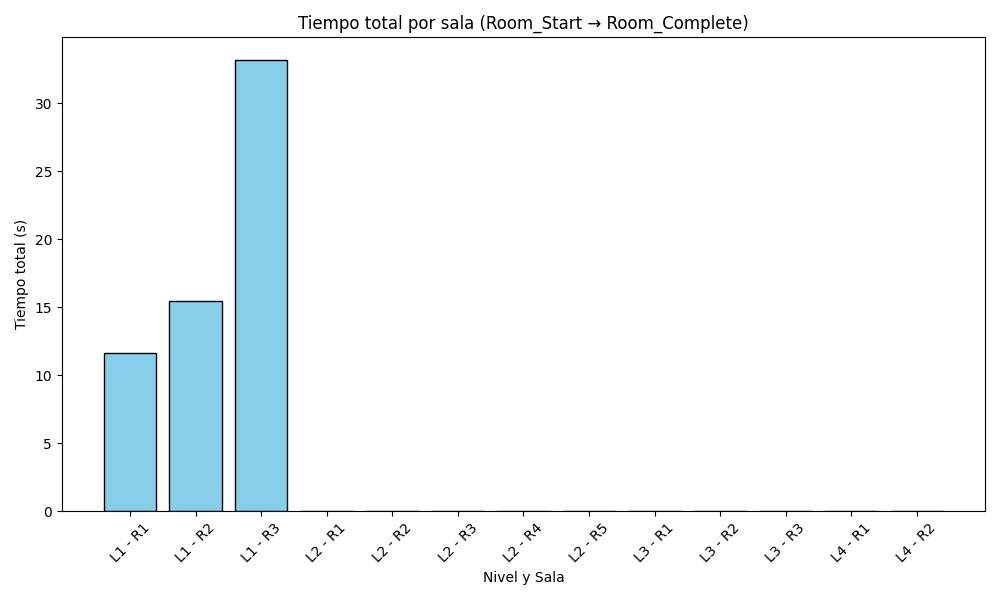
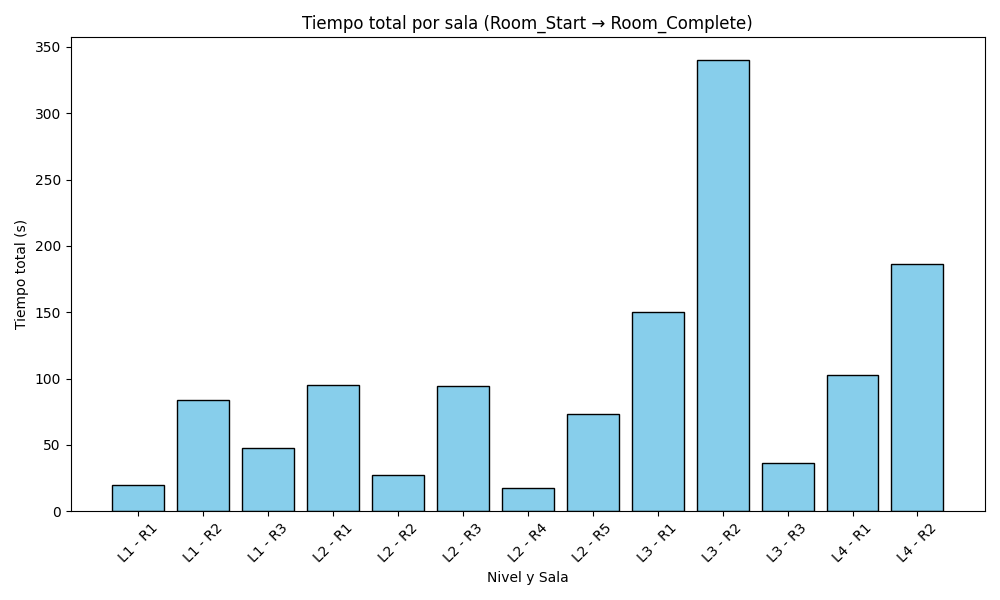
Room con numero correcto

diff --git a/Assets/Scripts/Items/DeathComponent.cs b/Assets/Scripts/Items/DeathComponent.cs
@@ -22,7 +22,7 @@ public class DeathComponent : MonoBehaviour
 
 
             float2 pos = new float2(PlayerManager.Instance.transform.position.x, PlayerManager.Instance.transform.position.y);
-            Tracker.Instance.TrackEvent(new Player_Death("level_" + GameManager.Instance.getLevel(), "room_" + GameManager.Instance.getRoom(), pos, cause));
+            Tracker.Instance.TrackEvent(new Player_Death("level_" + GameManager.Instance.getLevel(), "room_" + (GameManager.Instance.getRoom()+1), pos, cause));
             Tracker.Instance.Flush();
         }
     }

diff --git a/Assets/Scripts/Player/InputController.cs b/Assets/Scripts/Player/InputController.cs
@@ -175,7 +175,7 @@ public class InputController : MonoBehaviour
             GameManager.Instance.FadeOut();
 
             float2 pos = new float2(transform.position.x, transform.position.y);
-            Tracker.Instance.TrackEvent(new Manual_Reset("level_" + GameManager.Instance.getLevel(), "room_" + GameManager.Instance.getRoom(), pos));
+            Tracker.Instance.TrackEvent(new Manual_Reset("level_" + GameManager.Instance.getLevel(), "room_" + (GameManager.Instance.getRoom()+1), pos));
             Tracker.Instance.Flush();
         }
 
